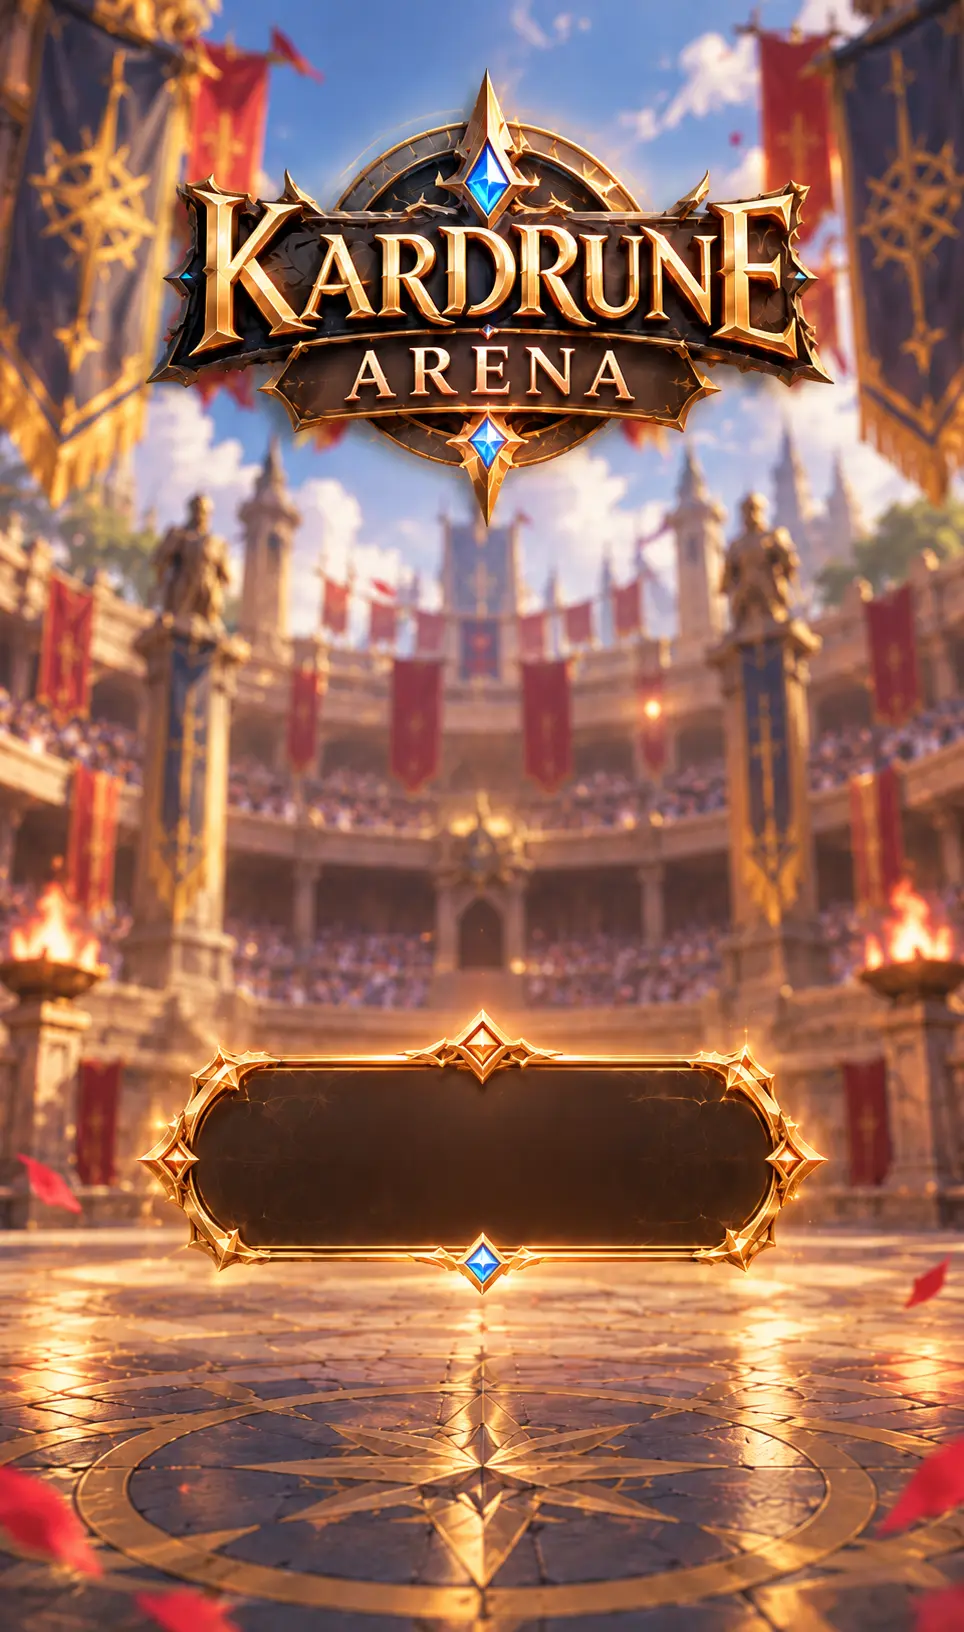
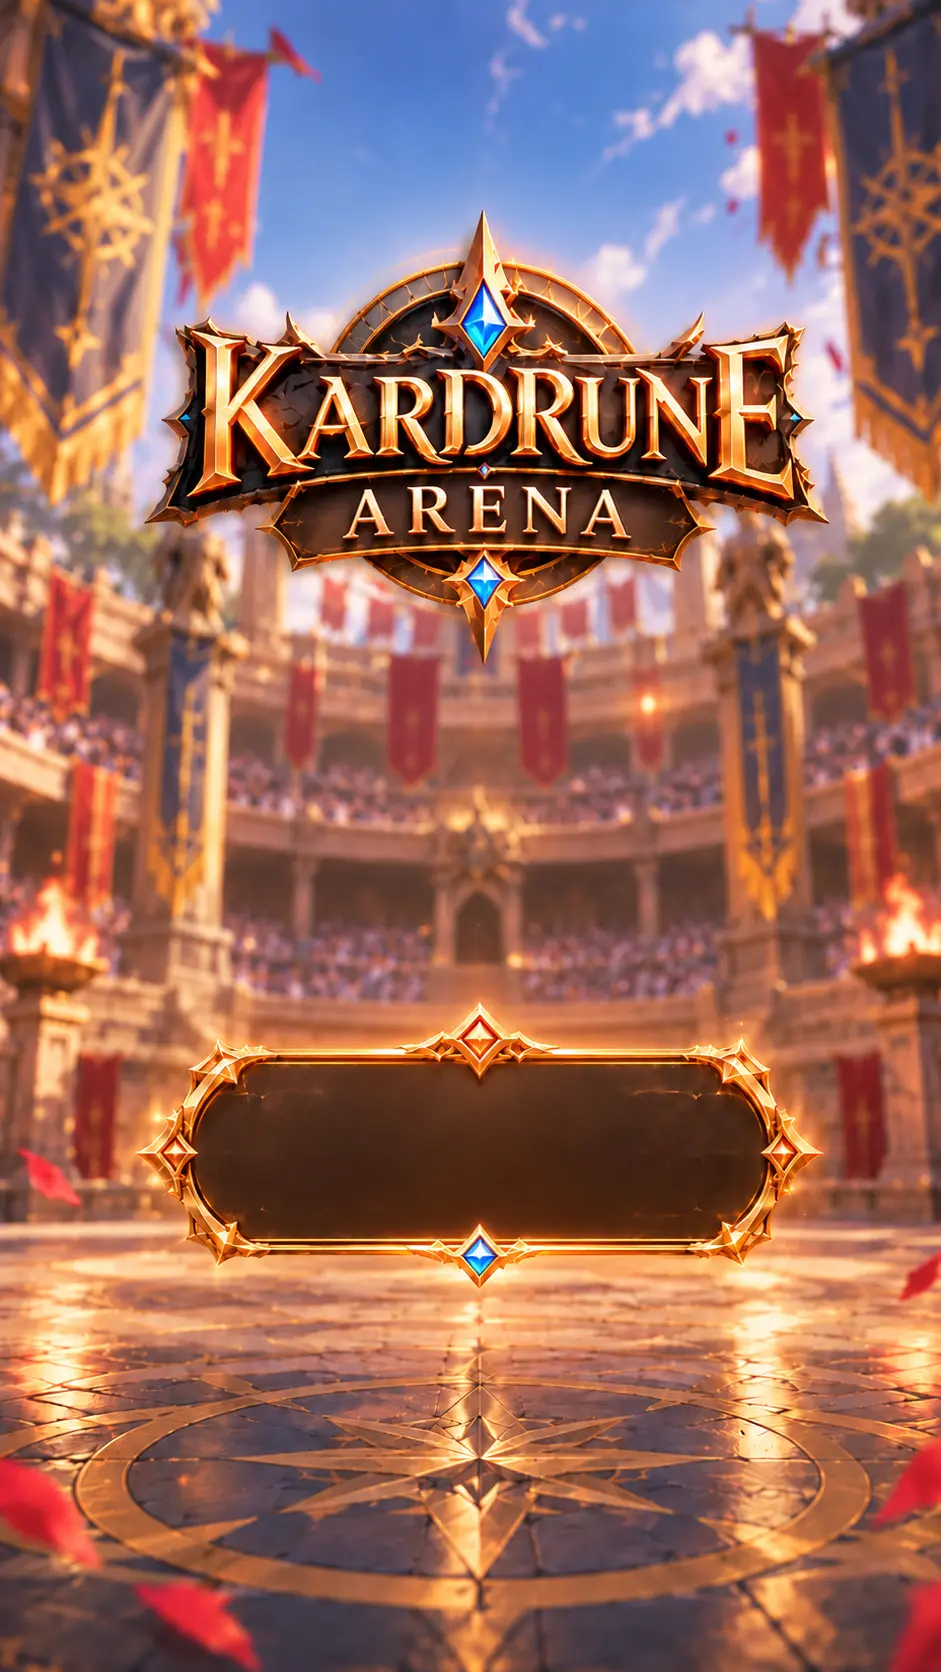
Refresh Idle Arena artwork and shard UI

diff --git a/idle_flutter/lib/app.dart b/idle_flutter/lib/app.dart
@@ -1254,7 +1254,13 @@ class _Header extends StatelessWidget {
             child: Row(
               mainAxisSize: MainAxisSize.min,
               children: [
-                const Text('◆', style: TextStyle(color: Color(0xff72d8ff))),
+                Image.asset(
+                  'assets/idle/arena/shard.webp',
+                  width: 22,
+                  height: 22,
+                  fit: BoxFit.contain,
+                  semanticLabel: 'Shards',
+                ),
                 const SizedBox(width: 5),
                 Text(
                   shards.toString().replaceAllMapped(
@@ -1554,9 +1560,20 @@ class _CardsState extends State<_Cards> {
       };
       return result != 0 ? result : ai.compareTo(bi);
     });
-    return Padding(
-      padding: const EdgeInsets.fromLTRB(12, 8, 12, 5),
-      child: Column(
+    return Container(
+      decoration: const BoxDecoration(
+        image: DecorationImage(
+          image: AssetImage('assets/idle/arena/background_deck.webp'),
+          fit: BoxFit.cover,
+        ),
+      ),
+      child: ClipRect(
+        child: BackdropFilter(
+          filter: ui.ImageFilter.blur(sigmaX: 3, sigmaY: 3),
+          child: Container(
+            decoration: const BoxDecoration(color: Color(0x99202c47)),
+            padding: const EdgeInsets.fromLTRB(12, 8, 12, 5),
+            child: Column(
         children: [
           Row(
             children: [
@@ -1766,6 +1783,9 @@ class _CardsState extends State<_Cards> {
                   ),
           ),
         ],
+            ),
+          ),
+        ),
       ),
     );
   }

diff --git a/idle_flutter/lib/features/summon/summon_screen.dart b/idle_flutter/lib/features/summon/summon_screen.dart
@@ -619,12 +619,28 @@ class _SummonScreenState extends State<SummonScreen>
             border: Border.all(color: const Color(0xffffe4a5)),
             borderRadius: BorderRadius.circular(8),
           ),
-          child: Text(
-            label,
-            style: const TextStyle(
-              color: Color(0xff251607),
-              fontWeight: FontWeight.w900,
-              letterSpacing: .7,
+          child: FittedBox(
+            fit: BoxFit.scaleDown,
+            child: Row(
+              mainAxisSize: MainAxisSize.min,
+              children: [
+                Text(
+                  label.split('◆').first.trim(),
+                  style: const TextStyle(
+                    color: Color(0xff251607),
+                    fontWeight: FontWeight.w900,
+                    letterSpacing: .7,
+                  ),
+                ),
+                if (label.contains('◆')) ...[
+                  const SizedBox(width: 5),
+                  Image.asset('assets/idle/arena/shard.webp', width: 18, height: 18),
+                  const SizedBox(width: 4),
+                  Text(label.split('◆').last.trim(), style: const TextStyle(
+                    color: Color(0xff251607), fontWeight: FontWeight.w900,
+                  )),
+                ],
+              ],
             ),
           ),
         ),

diff --git a/idle_flutter/lib/features/pvp/live_pvp_arena.dart b/idle_flutter/lib/features/pvp/live_pvp_arena.dart
@@ -602,14 +602,10 @@ class _LivePvpArenaState extends State<LivePvpArena> {
             child: LayoutBuilder(
               builder: (context, bounds) => Container(
                 decoration: const BoxDecoration(
-                  gradient: LinearGradient(
-                    begin: Alignment.topCenter,
-                    end: Alignment.bottomCenter,
-                    colors: [
-                      Color(0xff203959),
-                      Color(0xff091225),
-                      Color(0xff1a1232),
-                    ],
+                  image: DecorationImage(
+                    image: AssetImage('assets/idle/arena/background_fight_idlearena.webp'),
+                    fit: BoxFit.cover,
+                    alignment: Alignment.center,
                   ),
                 ),
                 child: Column(
